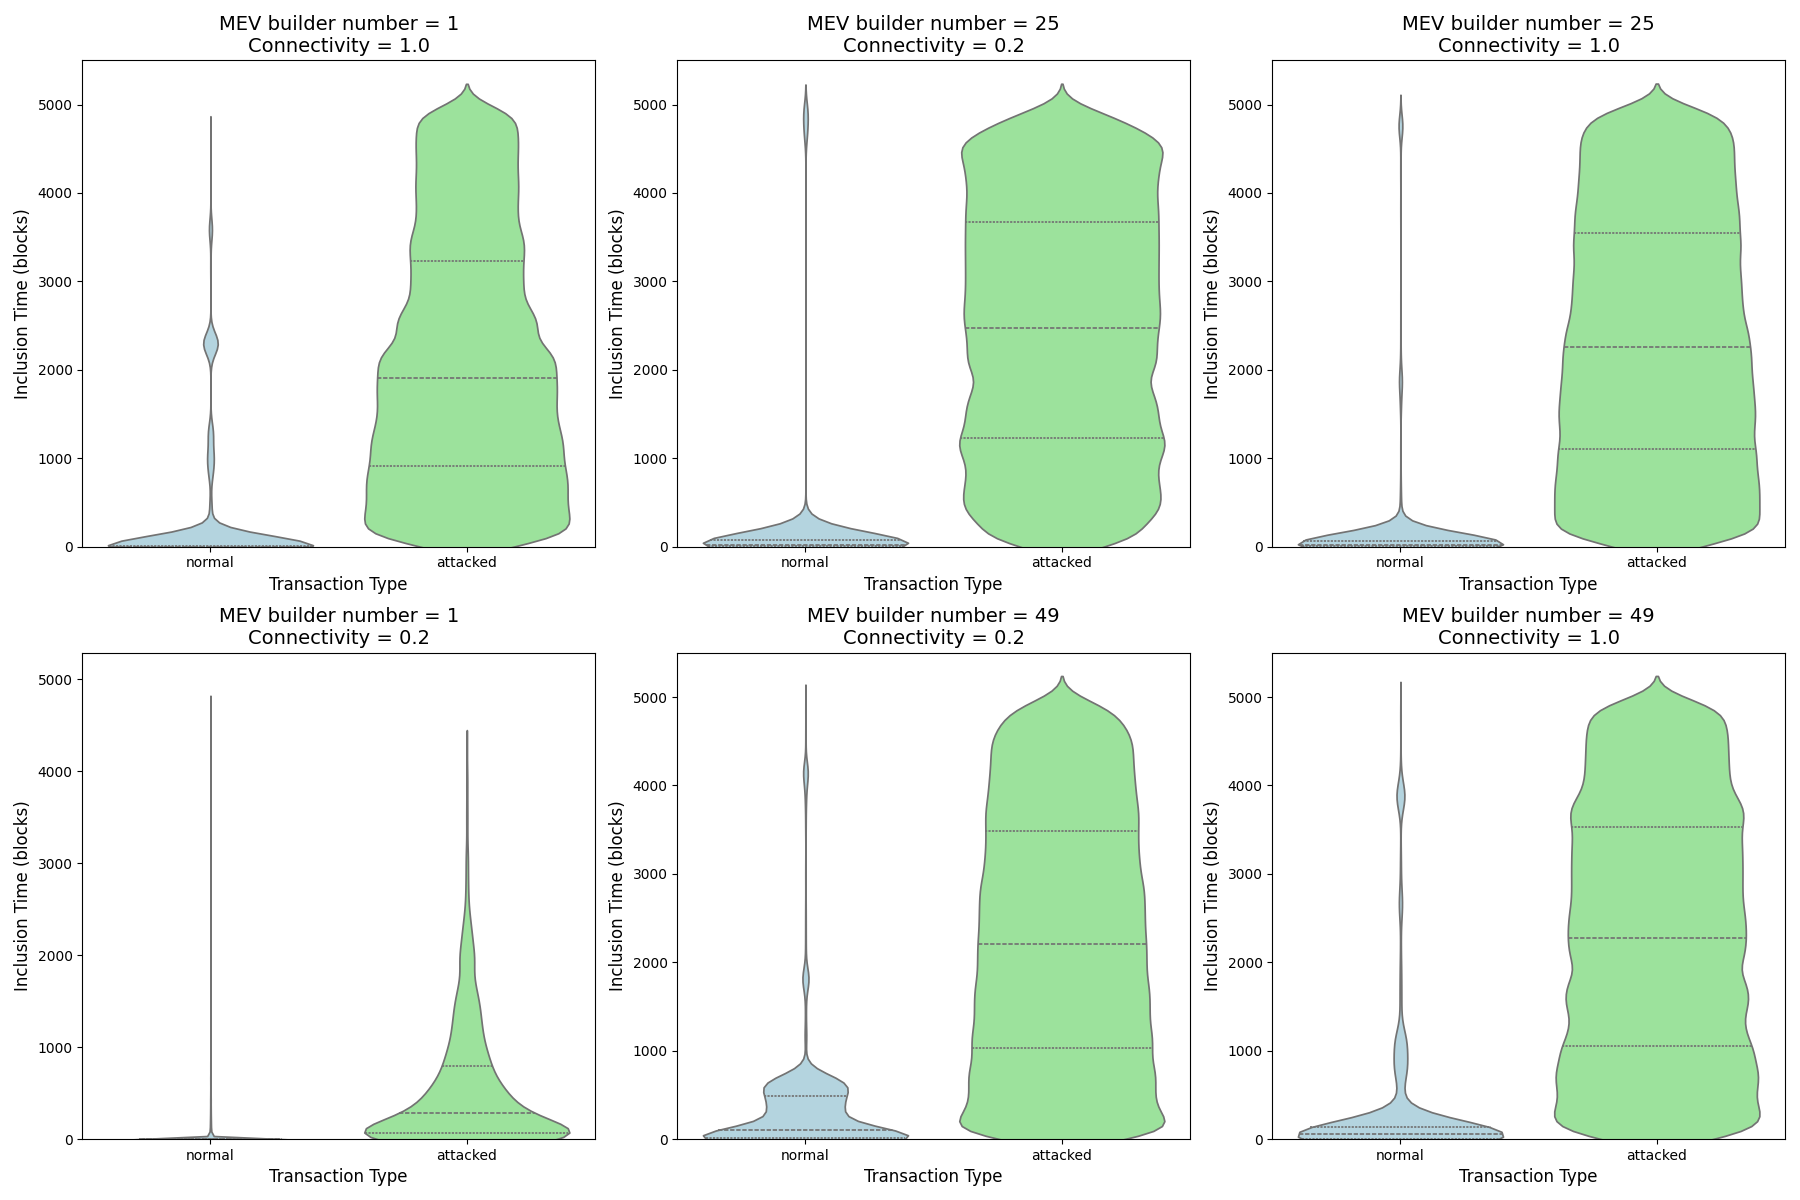
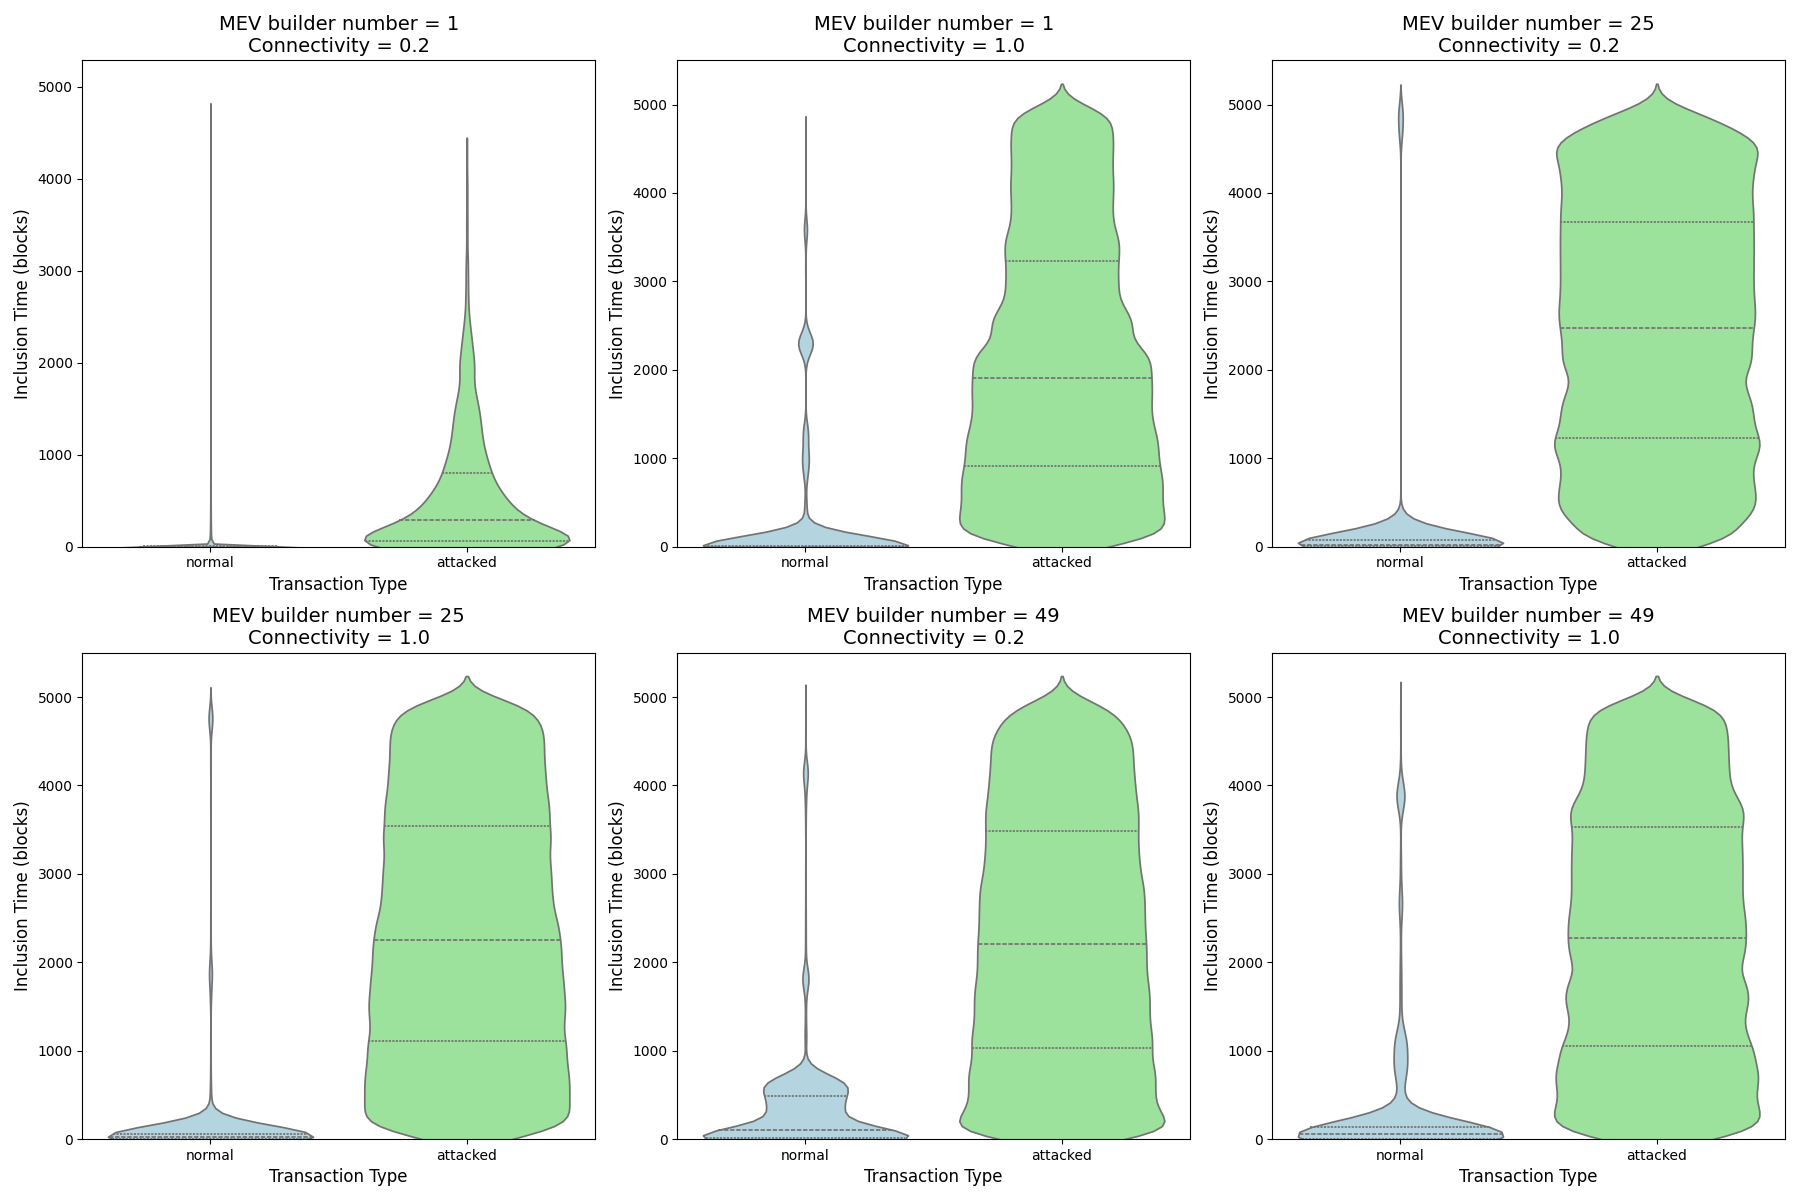
plots

diff --git a/plots/tx_plot.py b/plots/tx_plot.py
@@ -68,7 +68,7 @@ def process_file(file_path):
 
 def process_files_in_parallel(file_paths):
     data_dict = {}
-    with ProcessPoolExecutor() as executor:
+    with ProcessPoolExecutor(max_workers=4) as executor:
         futures = {executor.submit(process_file, file_path): file_path for file_path in file_paths}
         for future in as_completed(futures):
             file_path = futures[future]
@@ -84,12 +84,17 @@ def process_files_in_parallel(file_paths):
                 print(f"Error processing {file_path}: {e}")
     return data_dict
 
+def sort_data_dict(data_dict):
+    sorted_items = sorted(data_dict.items(), key=lambda item: (item[1]['mev_builders'].iloc[0], item[1]['connectivity'].iloc[0]))
+    return {k: v for k, v in sorted_items}
+
 def plot_violin(data_dict, save_dir):
+    sorted_data_dict = sort_data_dict(data_dict)
     plt.figure(figsize=(18, 12))
-    for idx, (file_label, data) in enumerate(data_dict.items(), 1):
+    for idx, (file_label, data) in enumerate(sorted_data_dict.items(), 1):
         data = data[data['transaction_type'].isin(['normal', 'attacked'])]
         plt.subplot(2, 3, idx)
-        sns.violinplot(data=data, x='transaction_type', y='inclusion_time', inner="quart", palette=palette, order=order)
+        sns.violinplot(data=data, x='transaction_type', y='inclusion_time', hue='transaction_type', inner="quart", palette=palette, order=order, dodge=False, legend=False)
         mev_builders = data['mev_builders'].iloc[0]
         connectivity = data['connectivity'].iloc[0]
         plt.title(f'MEV builder number = {mev_builders}\nConnectivity = {connectivity}', fontsize=14)
@@ -102,8 +107,9 @@ def plot_violin(data_dict, save_dir):
     plt.close()
 
 def plot_kde_mev(data_dict, save_dir):
+    sorted_data_dict = sort_data_dict(data_dict)
     plt.figure(figsize=(18, 12))
-    for idx, (file_label, data) in enumerate(data_dict.items(), 1):
+    for idx, (file_label, data) in enumerate(sorted_data_dict.items(), 1):
         data = data[data['transaction_type'].isin(['normal', 'attacked'])]
         plt.subplot(2, 3, idx)
         sns.kdeplot(data=data[data['transaction_type'] == 'normal'], x='inclusion_time', y='mev', fill=True, color='lightblue', label='normal')
@@ -122,8 +128,9 @@ def plot_kde_mev(data_dict, save_dir):
     plt.close()
 
 def plot_kde_gas(data_dict, save_dir):
+    sorted_data_dict = sort_data_dict(data_dict)
     plt.figure(figsize=(18, 12))
-    for idx, (file_label, data) in enumerate(data_dict.items(), 1):
+    for idx, (file_label, data) in enumerate(sorted_data_dict.items(), 1):
         data = data[data['transaction_type'].isin(['normal', 'attacked'])]
         plt.subplot(2, 3, idx)
         sns.kdeplot(data=data[data['transaction_type'] == 'normal'], x='inclusion_time', y='gas', fill=True, color='lightblue', label='normal')
